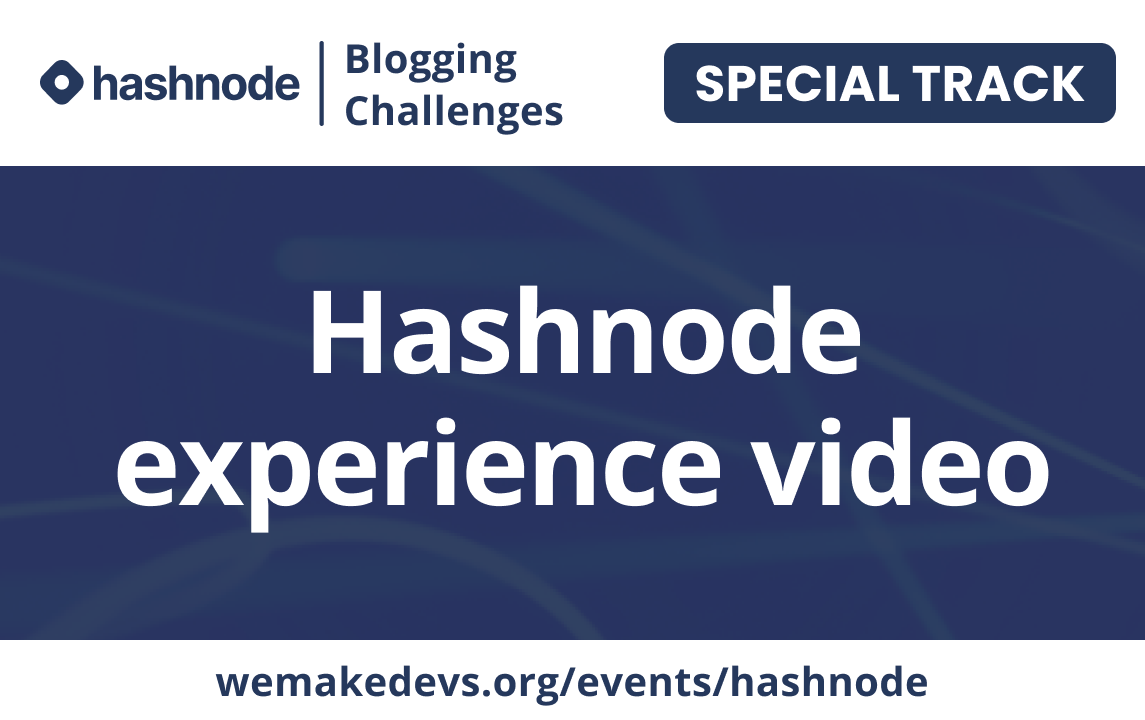
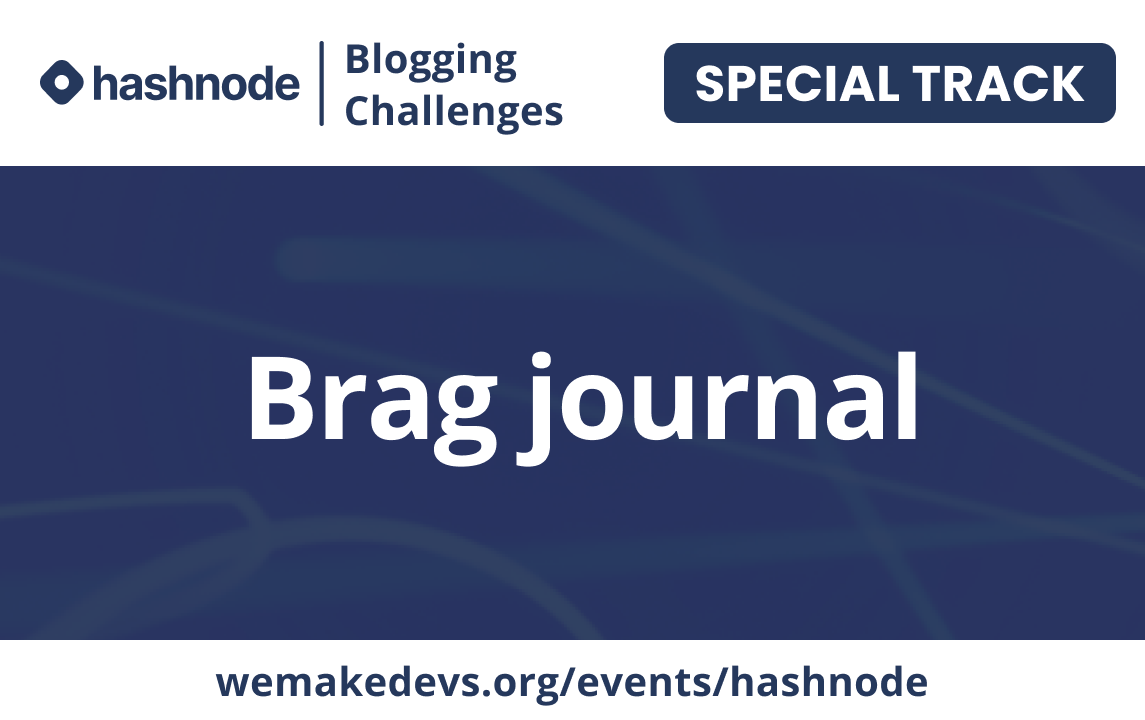
Update: Hashnode tracks for July

Changed region(s): [[0.0917, 0.3972, 0.917, 0.7639]]

diff --git a/src/components/PageComp/HashnodePage/Tracks.jsx b/src/components/PageComp/HashnodePage/Tracks.jsx
@@ -27,27 +27,27 @@ export default Tracks;
 const hashnodeData = [
   {
     description:
-      'Write a blog on the topic DevOps, share some of your learnings, and tools that you use and stand a chance to win the prize.',
+      'Write a blog on the topic Artifial Intelligence, share some of your learnings, and tools that you use and stand a chance to win the prize.',
     image: Track1,
   },
   {
     description:
-      'Write a blog on the topic DSA, share some of your tips, and learnings and stand a chance to win prize.',
+      'Write a blog on the topic Development, share some of your tips, and learnings and stand a chance to win prize.',
     image: Track2,
   },
   {
     description:
-      'Write a blog on the topic Embedded Technologies, and stand a chance to win the prize.',
+      'Write a blog on the topic Open Source, and stand a chance to win the prize.',
     image: Track3,
   },
   {
     description:
-      'Write a blog on the topic Backend Development, share some of your knowledge and learnings, and stand a chance to win the prize.',
+      'Write a blog sharing some of your takeaways from hackathons. If you want to participate in one, check out AWS Amplify by Hashnode',
     image: Track4,
   },
   {
     description:
-      'Record a video, sharing how participating in the blogging challenges and writing on hashnode has helped you in your learnings and brand growth, share it on Twitter, tagging @WeMakeDevs and @hashnode, and get a change to win a StreamDeck and a YouTube mentorship session with Kunal Kushwaha',
+      'It is important to look back at things you have acheived to stay motivated to do even more amazing things. Half of 2023 is over, and now it\'s time to look back at all your acomplishments so far. Write about them and you can win the special prize.',
     image: Special,
   },
 ];
